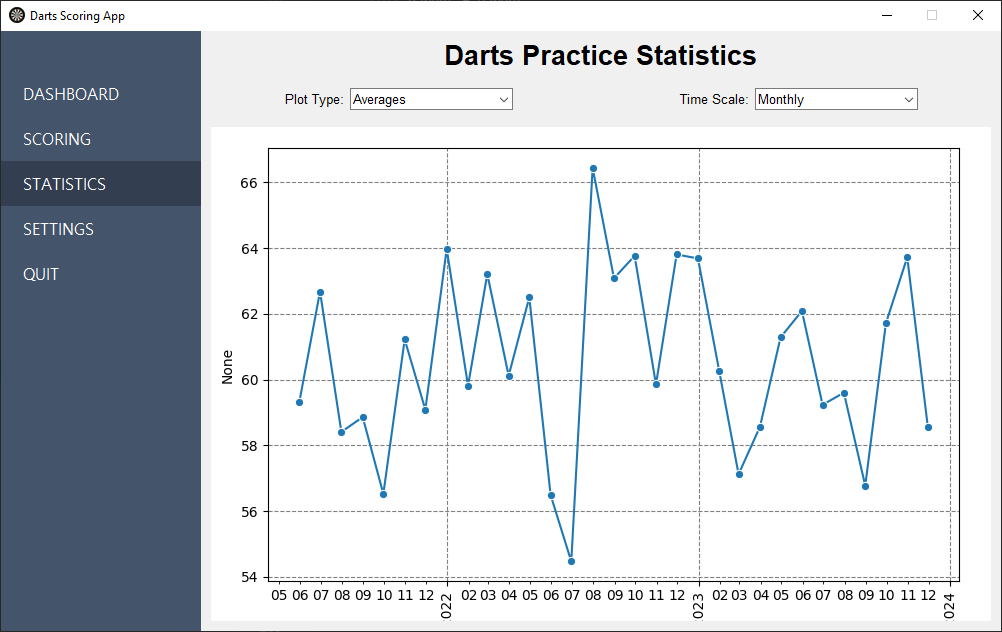
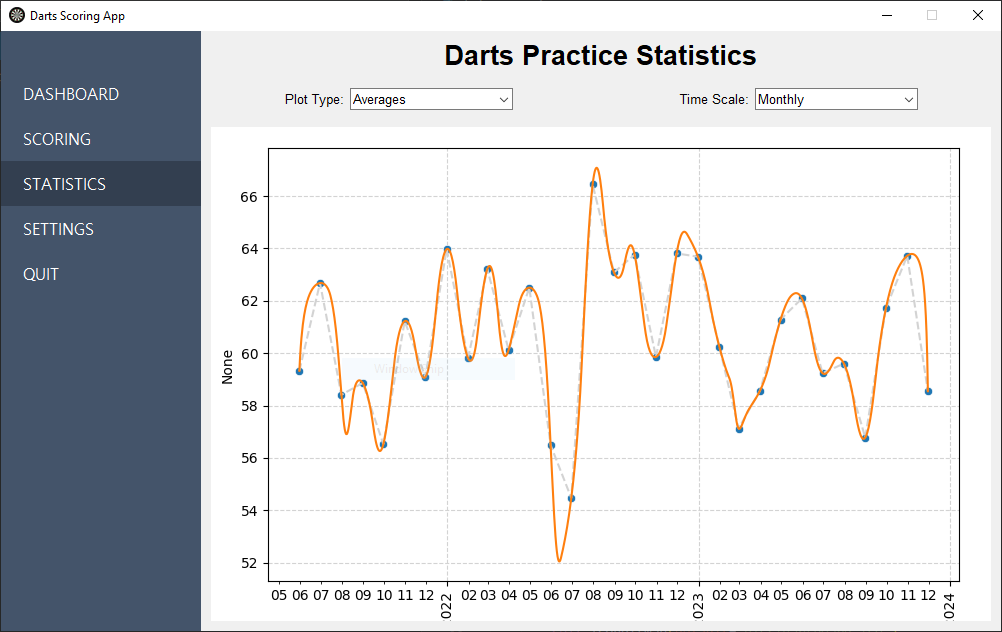
3-Dart-Average Plot style update

diff --git a/pages/statistics.py b/pages/statistics.py
@@ -155,8 +155,16 @@ class Plot():
         fig.tight_layout(h_pad=5)
         # Creating plots
         if self.plot_type == "Averages":
-            sns.lineplot(x=df.index, y=df.overall_score / df.visits, 
+            sns.scatterplot(x=df.index, y=df.overall_score / df.visits, 
                             color="tab:blue", marker='o', ax=ax)
+            sns.lineplot(x=df.index, y=df.overall_score / df.visits, 
+                            color="lightgray", ax=ax)
+            ax.lines[0].set_linestyle("--")
+            df_smooth = df.resample("D").interpolate(method="quadratic")
+            sns.lineplot(x=df_smooth.index, 
+                         y=df_smooth.overall_score / df_smooth.visits, 
+                         color="tab:orange", ax=ax
+                         )
         elif self.plot_type == "Nr of Sessions":
             ax.bar(df.index, df.nr_of_games, width=15, 
                    color="tab:blue",  edgecolor='black')
@@ -165,8 +173,8 @@ class Plot():
         years_format = mdates.DateFormatter('%Y')
         months_format = mdates.DateFormatter('%m')
         ax.set_axisbelow(True)
-        ax.xaxis.grid(color='gray', linestyle='dashed')
-        ax.yaxis.grid(color='gray', linestyle='dashed')
+        ax.xaxis.grid(color='lightgray', linestyle='dashed')
+        ax.yaxis.grid(color='lightgray', linestyle='dashed')
         ax.xaxis.set_major_locator(years)
         ax.xaxis.set_major_formatter(years_format)
         ax.xaxis.set_minor_locator(months)
